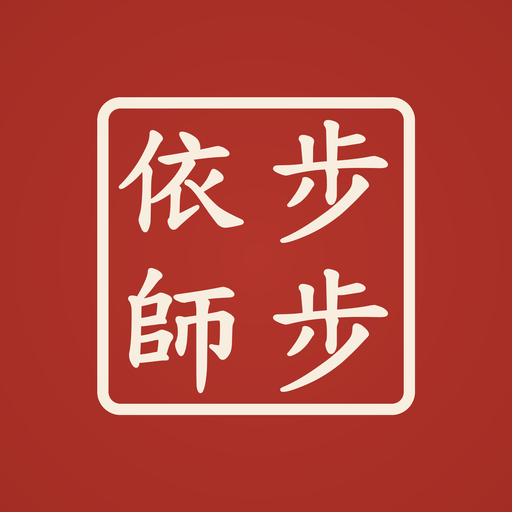
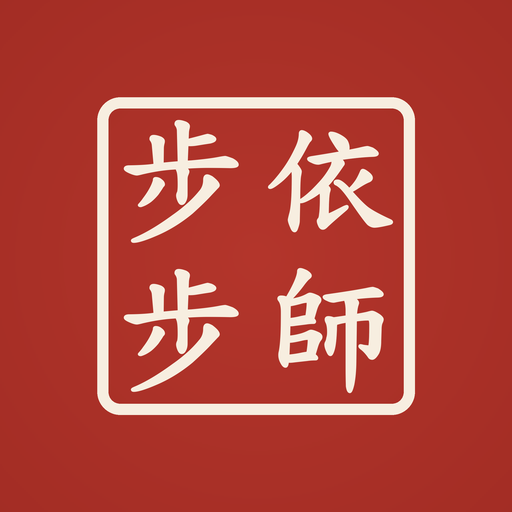
圖示改成左行「步步」、右行「依師」（手機上由左讀到右）

diff --git a/sw.js b/sw.js
@@ -1,5 +1,5 @@
-// 師父講解科判 service worker（由 師父科判網頁.py 產生，版本 09b45ff824）
-const CACHE = "kepan-09b45ff824";
+// 師父講解科判 service worker（由 師父科判網頁.py 產生，版本 603e100fd0）
+const CACHE = "kepan-603e100fd0";
 const SHELL = ["./", "index.html", "manifest.webmanifest", "icons/icon-192.png", "icons/icon-512.png",
                "icons/maskable-512.png", "icons/apple-touch-icon.png", "icons/favicon-32.png"];
 self.addEventListener("install", e => {
